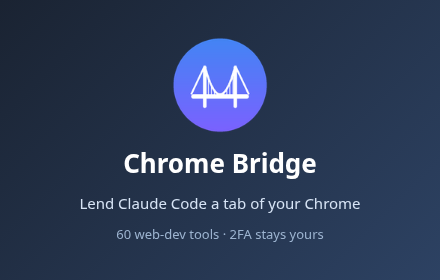
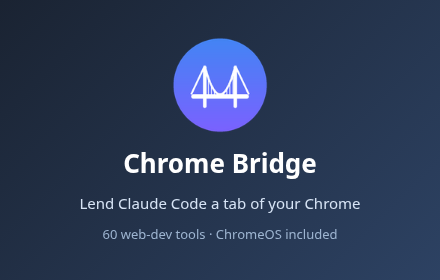
docs(store): drop "2FA stays yours" from promo tile and proposed summary

Changed region(s): [[0.2364, 0.8, 0.7682, 0.8571]]

diff --git a/docs/store/promo-tile.html b/docs/store/promo-tile.html
@@ -16,6 +16,6 @@
     <img src="/icon-128.png" alt="">
     <h1>Chrome Bridge</h1>
     <p>Lend Claude Code a tab of your Chrome</p>
-    <p class="n">60 web-dev tools · 2FA stays yours</p>
+    <p class="n">60 web-dev tools · ChromeOS included</p>
   </div>
 </body></html>

diff --git a/docs/store/listing.md b/docs/store/listing.md
@@ -8,7 +8,7 @@ Chrome Bridge for Claude Code
 
 On the Store the summary is the manifest `description` (today: "Bridge your browser to Claude Code: 60 token-efficient web-dev automation tools over a local WebSocket. ChromeOS included."). The line below is the positioning version: it reaches the Store only by moving it into `extension/manifest.json` in a release that uploads a new package.
 
-Lend Claude Code a tab of your own logged-in Chrome and get it back; 2FA and CAPTCHA stay yours. 60 web-dev tools. ChromeOS too.
+Lend Claude Code a tab of your own logged-in Chrome and get it back. 60 web-dev tools. ChromeOS too.
 
 ## Category
 
